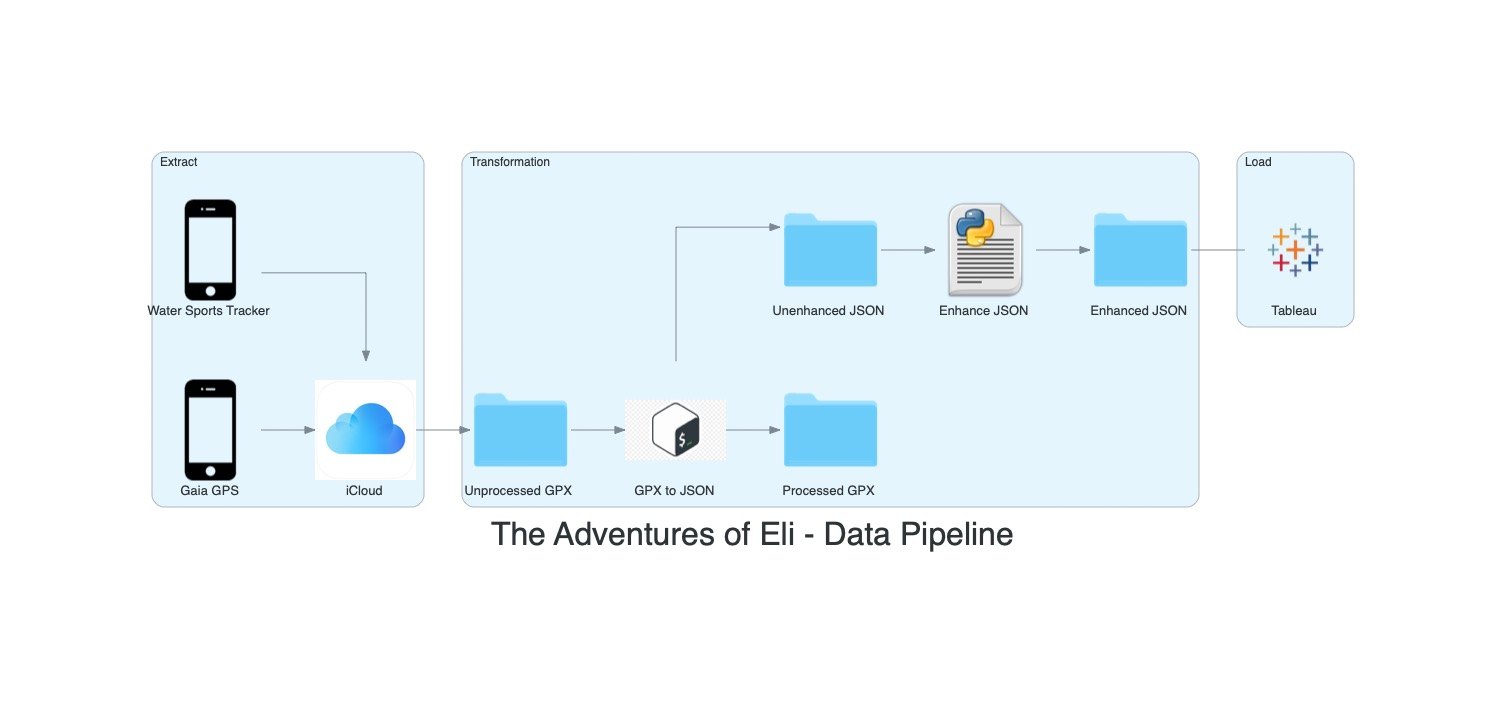
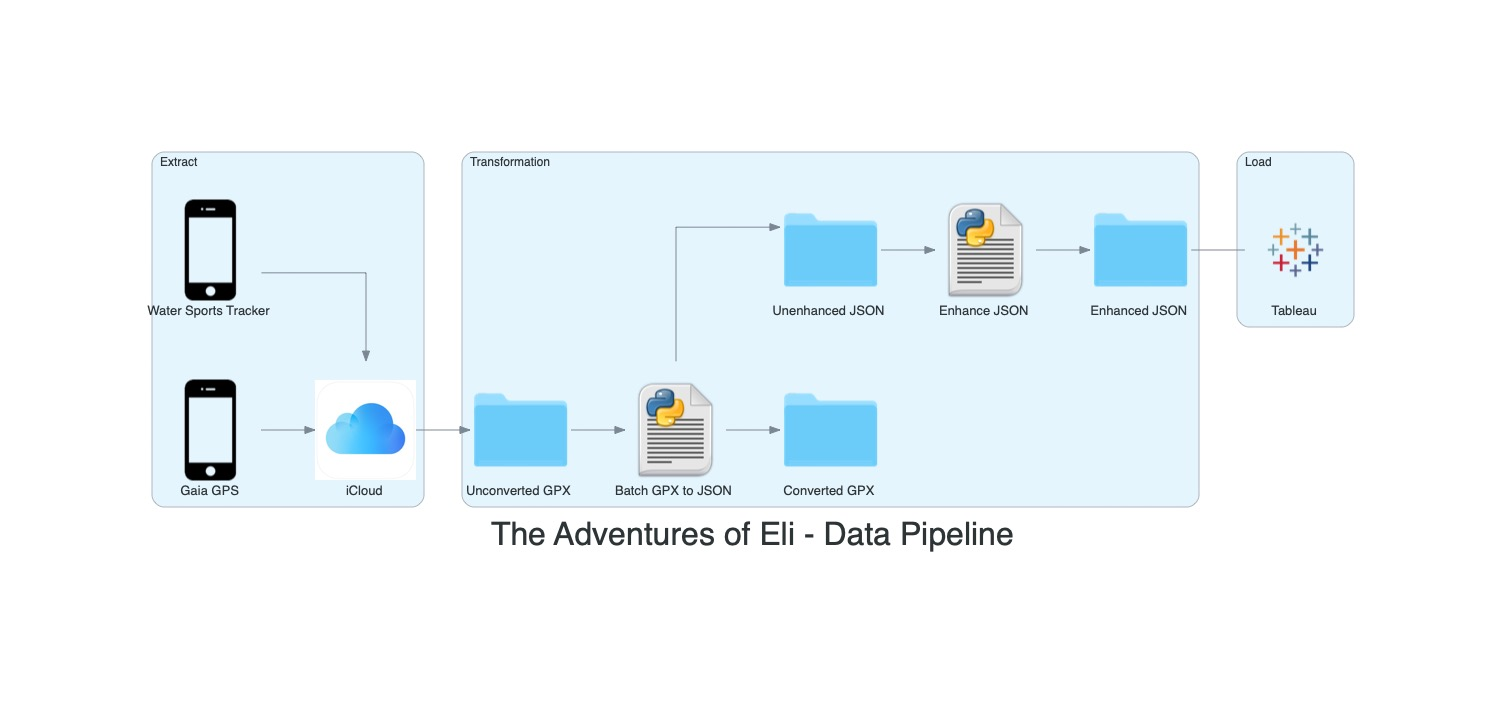
updated data pipeline diagram to align with new GPX to JSON script

Changed region(s): [[0.4057, 0.5385, 0.593, 0.7179], [0.3121, 0.688, 0.3745, 0.7179]]

diff --git a/diagrams/data_pipeline.py b/diagrams/data_pipeline.py
@@ -1,4 +1,4 @@
-from diagrams import Diagram, Cluster, Edge
+from diagrams import Diagram, Cluster
 from diagrams.generic.device import Mobile
 from diagrams.custom import Custom
 
@@ -15,9 +15,9 @@ with Diagram('The Adventures of Eli - Data Pipeline', filename='data_pipeline', 
         iCloud = Custom('iCloud', './my_resources/iCloud-icon.jpeg')
     
     with Cluster('Transformation'):
-        unprocessed_gpx_folder = Custom('Unprocessed GPX', './my_resources/folder-icon.png') 
-        gpx_to_json_scr = Custom('GPX to JSON', './my_resources/shell-script-icon.jpeg')
-        processed_gpx_folder = Custom('Processed GPX', './my_resources/folder-icon.png') 
+        unconverted_gpx_folder = Custom('Unconverted GPX', './my_resources/folder-icon.png') 
+        gpx_to_json_scr = Custom('Batch GPX to JSON', './my_resources/python-script-icon.png')
+        converted_gpx_folder = Custom('Converted GPX', './my_resources/folder-icon.png') 
         unenhanced_json_folder = Custom('Unenhanced JSON', './my_resources/folder-icon.png')
         enhance_json_scr = Custom('Enhance JSON', './my_resources/python-script-icon.png')
         enhanced_json_folder = Custom('Enhanced JSON', './my_resources/folder-icon.png')
@@ -27,10 +27,10 @@ with Diagram('The Adventures of Eli - Data Pipeline', filename='data_pipeline', 
 
     wsp >> iCloud 
     gaia >> iCloud 
-    iCloud >> unprocessed_gpx_folder 
-    unprocessed_gpx_folder >> gpx_to_json_scr 
+    iCloud >> unconverted_gpx_folder 
+    unconverted_gpx_folder >> gpx_to_json_scr 
     gpx_to_json_scr >> [
-        processed_gpx_folder,
+        converted_gpx_folder,
         unenhanced_json_folder
     ] 
     unenhanced_json_folder >> enhance_json_scr >> enhanced_json_folder
